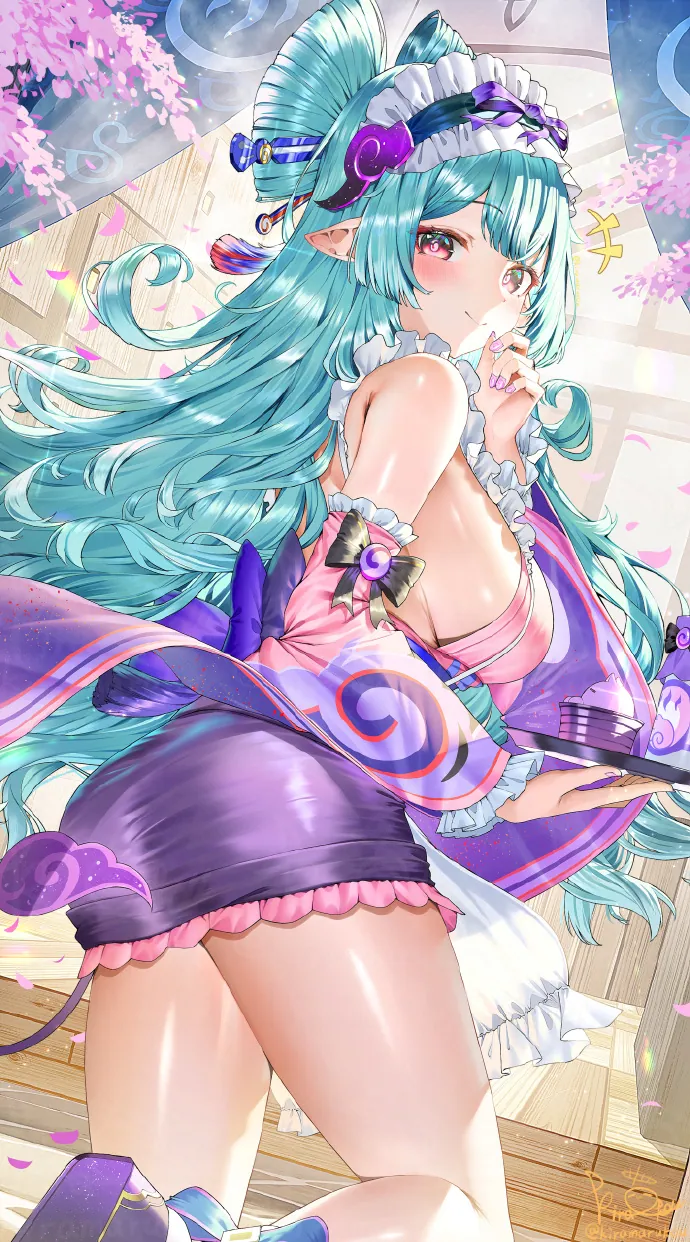
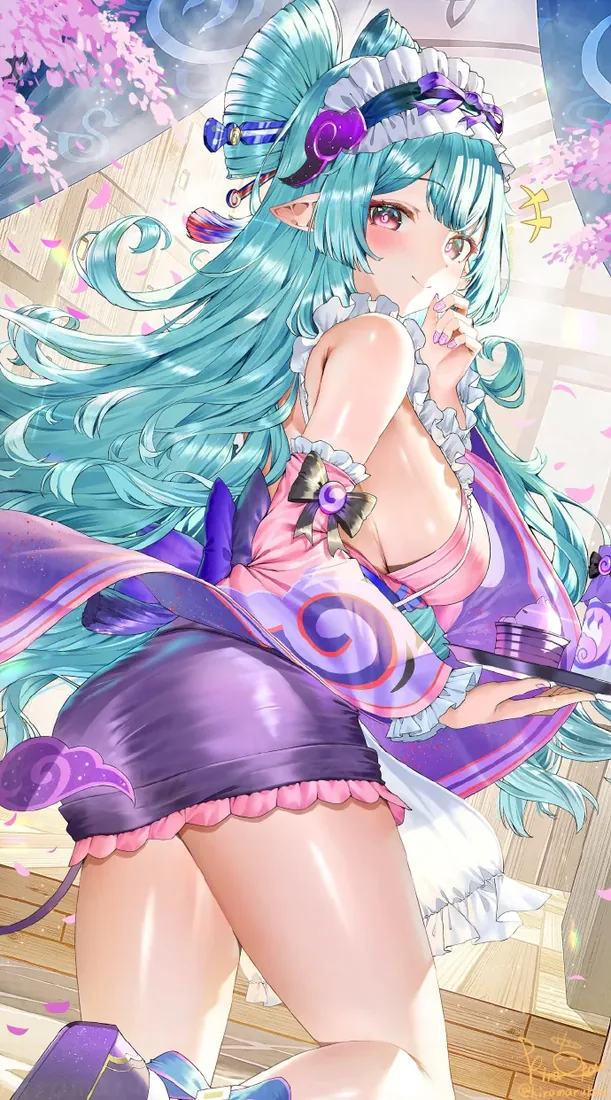
压掉 600KB 图片字节：这条线路上 GitHub Pages 只有几十 KB/s，字节数就是加载时间
上一提交把「重复下载」的部分清零了，但冷启动仍然 73s。逐个请求拆开来看才明白
为什么 —— 这是**不限速**抓下来的真实数据：

    Image  159K  miko.webp             传了 26.6s
    Image  149K  cover-seitokai.webp   传了 22.9s
    Image  273K  df17a986c77a.webp     传了 25.9s
    Image   96K  cover-control.webp    传了 22.9s

159KB 传 26.6 秒 ≈ 6 KB/s。瓶颈不是带宽上限，也不是 RTT，是这条线路到
GitHub Pages 的单连接吞吐就只有几十 KB/s。既然如此，唯一有效的杠杆就是砍字节。

这一次砍掉 600KB（2.4M → 1.8M）：

  avatar.webp  1024x1024 → 320x320    160K →   4K   -97%
                                       头像在页面上最大也就一百来像素，
                                       1024 是纯浪费，这是单次收益最大的一项
  df17a986c77a.webp  1280x1763 → 799x1100  272K → 141K
  cover-control.webp 1600x900  → 1400x788   95K →  66K
  wall-seaside.webp  1600x904  → 1400x791  115K →  91K
  相册其余 11 张    最大边收到 1100px，quality 82 / method 6

为什么 1100 是安全的：lightbox 的样式是 max-height: 82vh，
1080p 屏上满打满算约 885px 高，1100px 的源图已经超出需求。

两个「试了又撤回」的，记一下免得重复斟酌：
  - cover-anime.webp 原本质量就压得很好，重编码反而 91K → 96K，已还原
  - miko.webp 是 74 帧动画，quality 70 只到 139K（-12%），
    而角色图压到 70 有色带风险，收益配不上风险，保持原图

顺手精简 WARM 名单：删掉 9 个 HTML 页面和 cover-anime 等 4 张图。
理由不是它们没用，而是**不需要提前下载** —— fetch 拦截器在资源第一次
流经时就已经写进缓存了。提前下载的代价是实打实的：cover-anime 只有 dark
皮肤用得到，92K 在这条线路上要传 3 秒，白白占着别的资源要用的带宽。
名单现在只剩「当前这一屏就要用的核心件」。

ASSET 缓存 v2 → v3：图片内容确实换了，必须手动加一，
否则老访客的 Cache Storage 里一直是旧图。这正是「图片缓存不带代码版本号」
这层设计里预留的那次手动 bump —— 平时改 CSS 不动它，换了图才动。

原图备份在 .workbuddy/backup/img-2026-10-24/。
回归：check-v6 139/139、check-align 14/14。

Changed region(s): [[0.3732, 0.1545, 0.4354, 0.1855]]

diff --git a/sw.js b/sw.js
@@ -42,19 +42,25 @@
 
 const V = '20261024211014';
 const CODE = 'dyg-code-' + V;   /* HTML / CSS / JS：随代码版本走 */
-const ASSET = 'dyg-asset-v2';   /* 图片 / 字体 / 音频：不随代码版本走，
-                                   只有这些文件真的换内容了才手动把 v2 加一 */
+/* v2 → v3：图片重新压过一遍（见下方 WARM 注释里那条吞吐数据），
+   内容变了必须手动加一，否则老访客的 Cache Storage 里一直是旧图。 */
+const ASSET = 'dyg-asset-v3';   /* 图片 / 字体 / 音频：不随代码版本走，
+                                   只有这些文件真的换内容了才手动把 -vN 加一 */
 
 /* GitHub Pages 的 HTTP 缓存头改不了，固定 max-age=600。
    在这窗口里 SWR 没有意义：拉回来的一定是同一份字节。 */
 const FRESH_MS = 10 * 60 * 1000;
 
-/* 页面 idle 后慢慢补的资源。URL 写法和 HTML 里的相对路径一致；
-   带 ?v= 的必须写全，否则缓存里是老版本、页面却要新版本，会多一次网络往返。 */
+/* 页面 idle 后慢慢补的资源。
+ *
+ * 为什么这份名单故意很短：凡是在使用过程中会被请求的资源（别的页面、
+ * 别的皮肤的背景图、博客形态的大图），fetch 拦截器在它们第一次流经时
+ * 就已经写进缓存了 —— 根本不需要提前下载。
+ * 提前下载的代价是实打实的：这条线路上 GitHub Pages 的有效吞吐只有
+ * 几十 KB/s，一张 cover-anime（92K，只有 dark 皮肤用得到）就要传 3 秒，
+ * 白白占着别人的带宽。所以名单里只留「当前这一屏就要用的核心件」，
+ * 而且它们此刻大多还躺在浏览器的 HTTP 缓存里，补一下几乎是免费的。 */
 const WARM = [
-  './blog.html', './archive.html', './tags.html', './about.html',
-  './friends.html', './gallery.html', './post.html', './post-control.html',
-  './404.html',
   './theme.css?v=' + V,
   './ui.js?v=' + V,
   './home.js?v=' + V,
@@ -67,12 +73,6 @@ const WARM = [
   './assets/fonts/mast-cherry-bomb-one.woff2',
   './assets/favicon.svg',
   './assets/img/miko.webp',
-  './assets/img/wall-seaside.webp',
-  './assets/img/wall-seaside-blur.webp',
-  './assets/img/cover-control.webp',
-  './assets/img/cover-seitokai.webp',
-  './assets/img/cover-anime.webp',
-  './assets/img/avatar.webp',
 ];
 
 const OFFLINE = '<!doctype html><meta charset="utf-8">' +
